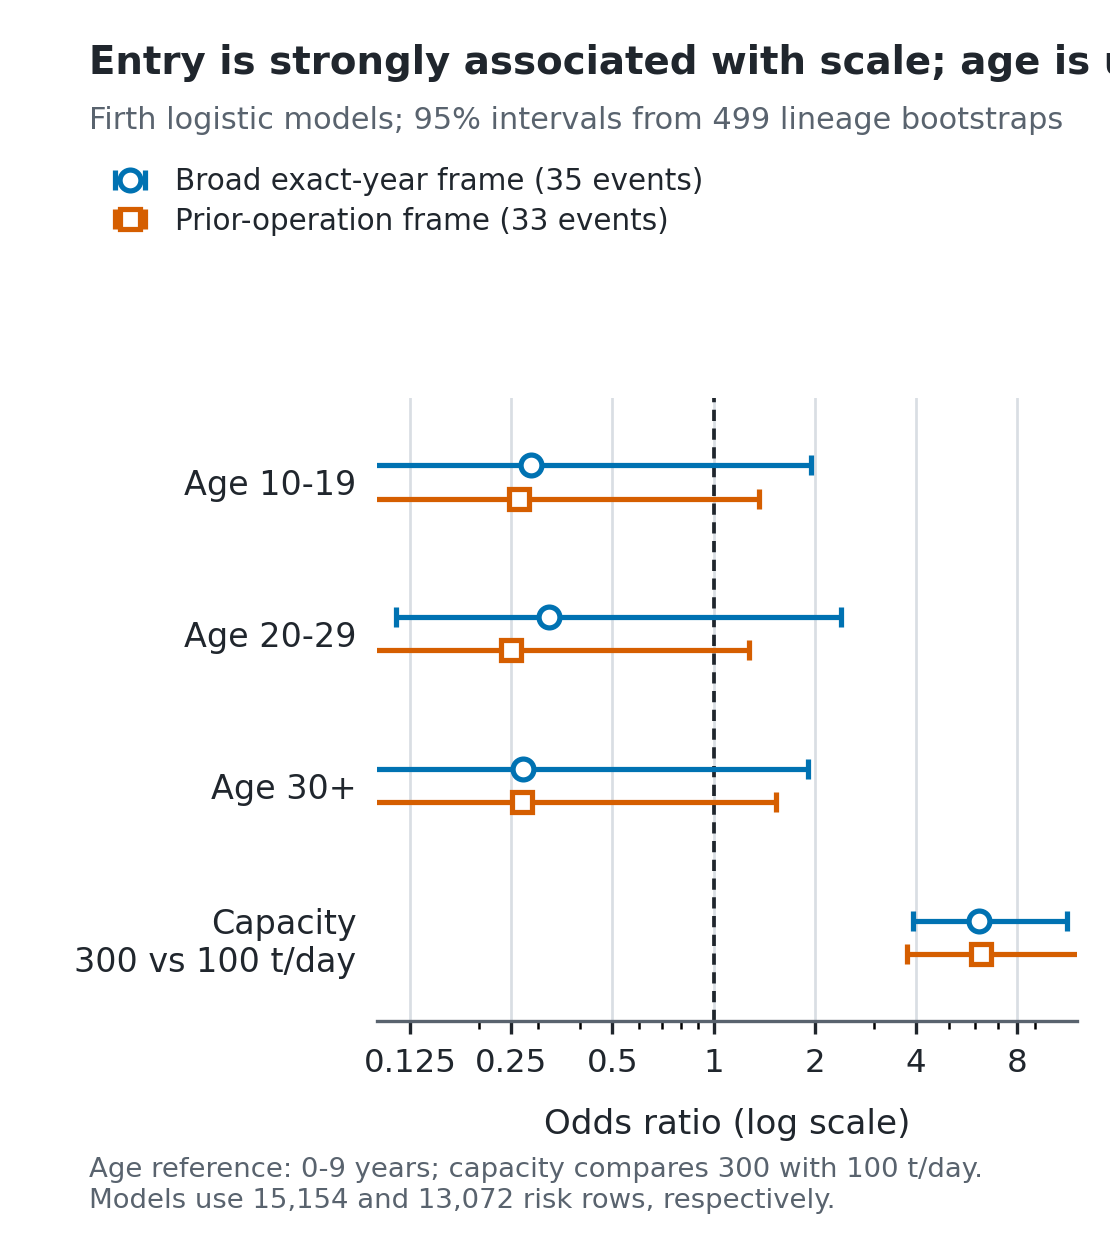
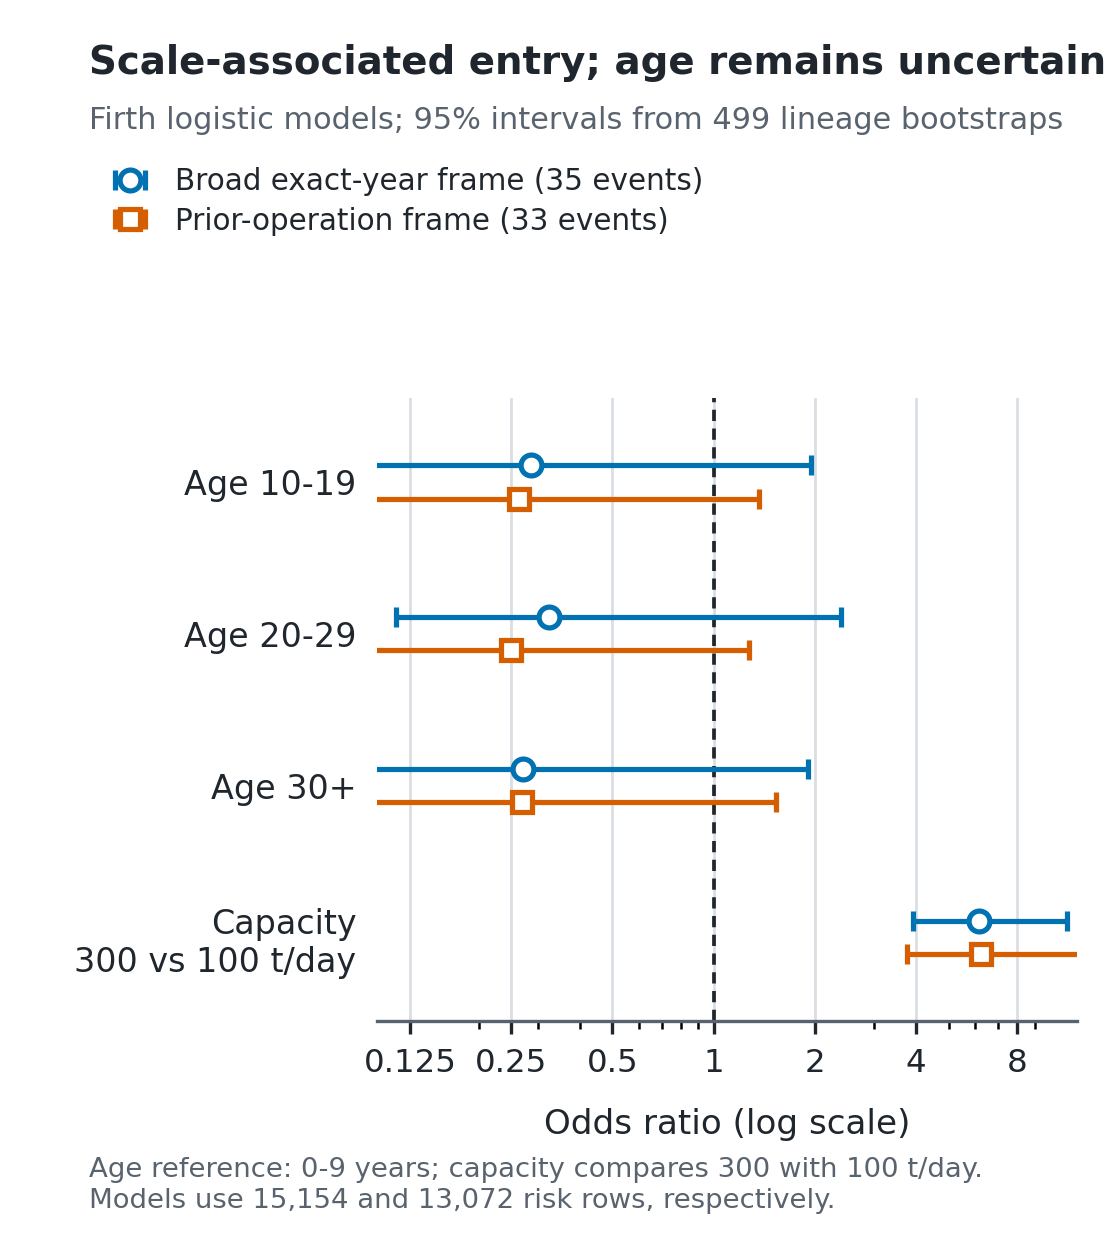
Prevent Figure 2 title clipping

Changed region(s): [[0.0613, 0.0305, 1.0, 0.061]]

diff --git a/paper/figures/build_figure2_selective_transition.py b/paper/figures/build_figure2_selective_transition.py
@@ -170,7 +170,7 @@ def build() -> None:
     fig.text(
         0.08,
         0.965,
-        "Entry is strongly associated with scale; age is uncertain",
+        "Scale-associated entry; age remains uncertain",
         fontsize=9.3,
         fontweight="semibold",
         ha="left",
